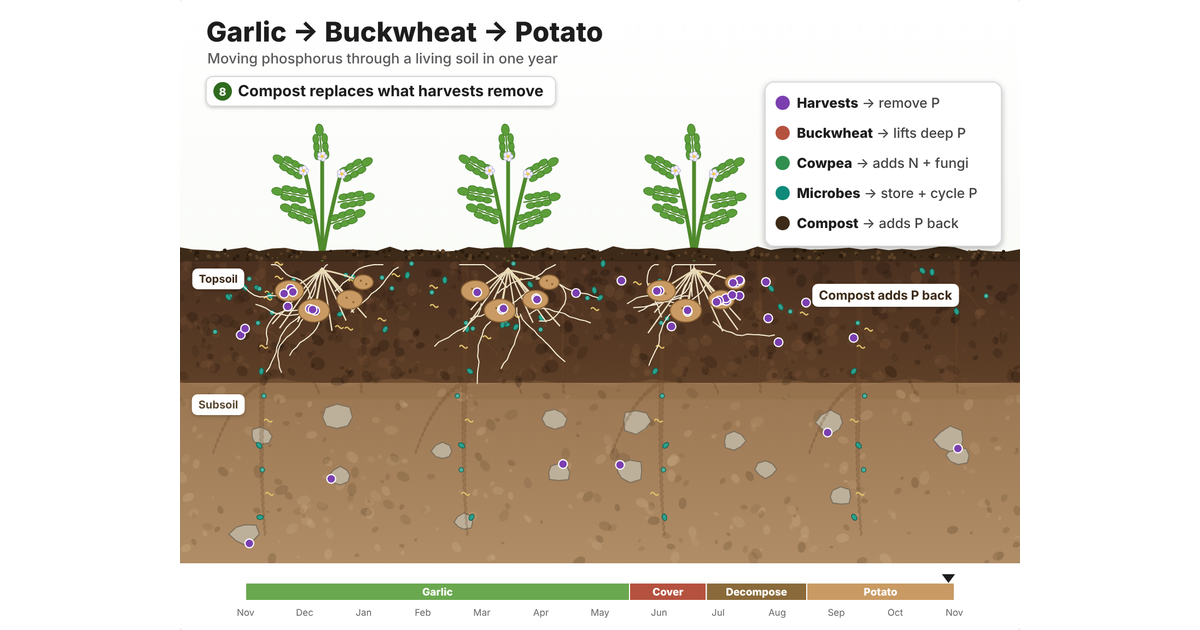
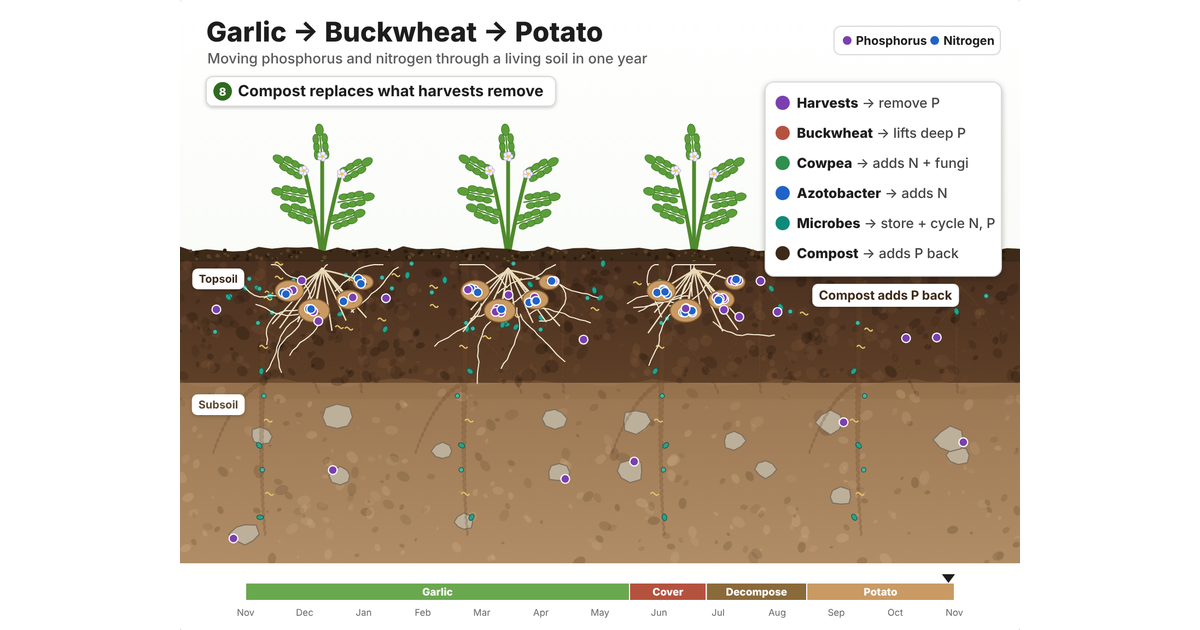
Add files via upload

diff --git a/garlic-buckwheat-potato.html b/garlic-buckwheat-potato.html
@@ -16,7 +16,7 @@
 <meta name="twitter:player:width" content="800">
 <meta name="twitter:player:height" content="600">
 
-<meta name="description" content="Step-through animation of a one-year garlic, buckwheat and cowpea, potato rotation showing how phosphorus moves from deep soil into plants, microbes and potato tubers.">
+<meta name="description" content="Step-through animation of a one-year garlic, buckwheat and cowpea, potato rotation showing how phosphorus and nitrogen move from deep soil into plants, microbes and potato tubers.">
 <link rel="preconnect" href="https://fonts.googleapis.com"><link rel="preconnect" href="https://fonts.gstatic.com" crossorigin>
 <link href="https://fonts.googleapis.com/css2?family=Inter:wght@500;600;700;800&display=swap" rel="stylesheet">
 <style>
@@ -57,7 +57,7 @@ button.icon{padding:9px 12px}
   <filter id="lshadow" x="-20%" y="-20%" width="140%" height="160%"><feDropShadow dx="0" dy="2" stdDeviation="3" flood-color="#000" flood-opacity="0.22"/></filter>
 </defs>
 <rect width="1536" height="1152" fill="url(#sky)"/>
-<g id="soilG"></g><g id="grainG"></g><g id="acidG"></g><g id="rootsG"></g><g id="resG"></g><g id="micG"></g><g id="hyphG"></g><g id="potG"></g><g id="garlicG"></g><g id="coverG"></g><g id="compG"></g><g id="tokG"></g><g id="labelG"></g><g id="uiG"></g><g id="tlG"></g>
+<g id="soilG"></g><g id="grainG"></g><g id="acidG"></g><g id="rootsG"></g><g id="resG"></g><g id="micG"></g><g id="azoG"></g><g id="hyphG"></g><g id="potG"></g><g id="garlicG"></g><g id="coverG"></g><g id="compG"></g><g id="tokG"></g><g id="labelG"></g><g id="uiG"></g><g id="tlG"></g>
 </svg>
 </main>
 <nav class="bar" aria-label="Step controls">
@@ -214,6 +214,14 @@ const PX=[260,600,940];const pot=[];
       hy.push(el('path',{d,stroke:'#f7efd9','stroke-width':2,fill:'none','stroke-linecap':'round',pathLength:1,'stroke-dasharray':'0 2'},hg));}
     pot.push({rg,sg,tubers,hy,x,y:G+70});});
 })();
+// Azotobacter pairs on buckwheat roots (inoculated)
+const AZO=[];
+(function(){const g=$('azoG');
+  BROOTS.forEach(b=>{for(let k=0;k<4;k++){const q=bz(b.tap,0.06+k*0.07);const x=q[0]+(k%2?22:-22),y=q[1];
+    const gg=el('g',{transform:`translate(${x},${y}) scale(0)`},g);
+    [-8,8].forEach(dx=>el('ellipse',{cx:dx,cy:0,rx:8,ry:6,fill:'#2aa08b',stroke:'#0f5a4c','stroke-width':1.5},gg));
+    AZO.push({g:gg,x,y,d:rnd()*0.4});}});
+})();
 // compost layer
 const COMP=el('g',{opacity:0},$('compG'));
 (function(){el('path',{d:`M0,${G-4} `+Array.from({length:65},(_,i)=>`L${i*24},${G-10-rnd()*10}`).join('')+` L${W},${G+6} L0,${G+6}Z`,fill:'#3d2a18'},COMP);
@@ -242,6 +250,18 @@ GRAINS.forEach((gr,gi)=>{for(let k=0;k<2;k++){const a=rnd()*Math.PI*2;const x=gr
   const p=near(pot,m.x,m.y);const tb=p.tubers[Math.floor(rnd()*p.tubers.length)];
   st[6]=[st[5][1],[tb.x+(rnd()-0.5)*20,tb.y+(rnd()-0.5)*10]];st[7]=[st[6][1]];
   TOK.push({st,col:'#7b3fb0'});}});
+// group N: nitrogen fixed by Azotobacter (from soil air) and cowpea nodules
+const NTOK=[];
+AZO.forEach((az,i)=>{const st=[];for(let s=0;s<3;s++)st[s]=null;
+  const sx=az.x+(rnd()-0.5)*60;st[3]=[[sx,G-30],[az.x+(rnd()-0.5)*10,az.y-4]];
+  st[4]=[st[3][1]];const m=near(MIC,az.x,az.y);st[5]=[st[4][0],[m.x+(rnd()-0.5)*8,m.y+(rnd()-0.5)*8]];
+  const p=near(pot,m.x,m.y);const tb=p.tubers[Math.floor(rnd()*p.tubers.length)];st[6]=[st[5][1],[tb.x+(rnd()-0.5)*24,tb.y+(rnd()-0.5)*12]];st[7]=[st[6][1]];
+  NTOK.push({st,col:'#1f63c9'});});
+cow.forEach(c=>c.nods.forEach((n,k)=>{if(k>2)return;const x=+n.getAttribute('cx'),y=+n.getAttribute('cy');const st=[];for(let s=0;s<3;s++)st[s]=null;
+  st[3]=[[x,y-6],[x,y]];st[4]=[[x,y]];const m=near(MIC,x,y);st[5]=[[x,y],[m.x+(rnd()-0.5)*8,m.y+(rnd()-0.5)*8]];
+  const p=near(pot,m.x,m.y);const tb=p.tubers[Math.floor(rnd()*p.tubers.length)];st[6]=[st[5][1],[tb.x+(rnd()-0.5)*24,tb.y+(rnd()-0.5)*12]];st[7]=[st[6][1]];
+  NTOK.push({st,col:'#1f63c9'});}));
+NTOK.forEach(t=>{t.d=rnd()*0.45;TOK.push(t);});
 // group C: compost P
 for(let i=0;i<14;i++){const x=60+rnd()*(W-120);const st=[];for(let s=0;s<7;s++)st[s]=null;st[7]=[[x,G-8],[x+(rnd()-0.5)*40,G+40+rnd()*120]];TOK.push({st,col:'#7b3fb0',comp:true});}
 TOK.forEach(t=>{t.d=rnd()*0.45;});
@@ -266,19 +286,20 @@ LB.harvest=label('Harvest removes P',1180,200,{fs:23,color:'#fff',bg:'#7b3fb0'})
 LB.bound=label('Bound P deep in the subsoil',1180,TOP+250,{fs:22,color:'#5b4a33'});
 LB.cowpea=label('Cowpea: fixes N, keeps fungi fed',1180,300,{fs:23,color:'#2f6b1f'});
 LB.acid=label('Acid exudates free deep P',1180,TOP+190,{fs:22,color:'#1d1d1d',bg:'#ffe14d'});
+LB.azo=label(['Azotobacter + cowpea fix N',['2','sub']],1180,G+60,{fs:22,color:'#fff',bg:'#1f63c9'});
 LB.up=label('P moves up into the plant',1180,360,{fs:23,color:'#fff',bg:'#7b3fb0'});
-LB.inc=label('Residue + P land in the topsoil',1180,300,{fs:23});
+LB.inc=label('Residue + N + P land in the topsoil',1180,300,{fs:23});
 LB.roots=label('Roots decay in place, all the way down',1180,TOP+190,{fs:22});
-LB.mic=label('Microbe bloom holds the P',1180,300,{fs:23,color:'#fff',bg:'#0f8a7a'});
+LB.mic=label('Microbe bloom holds the N + P',1180,300,{fs:23,color:'#fff',bg:'#0f8a7a'});
 LB.myco=label('Inoculated: fungi reach the P',1240,560,{fs:22,color:'#5d4a1c'});
-LB.tub=label('P feeds tuber set and starch',1240,620,{fs:22,color:'#fff',bg:'#7b3fb0'});
+LB.tub=label('N + P feed the tubers',1240,620,{fs:22,color:'#fff',bg:'#7b3fb0'});
 LB.comp=label('Compost adds P back',1290,G+70,{fs:23,color:'#3d2a18'});
 
 // ---------- UI ----------
 const UI=$('uiG');
 el('text',{x:48,y:76,'font-size':50,'font-weight':800,fill:'#1d1d1d'},UI).textContent='Garlic → Buckwheat → Potato';
-el('text',{x:50,y:116,'font-size':26,'font-weight':500,fill:'#5b5b5b'},UI).textContent='Moving phosphorus through a living soil in one year';
-const CAPS=['Nov: plant garlic','Garlic draws P from the topsoil','May: harvest garlic, sow buckwheat + cowpea','Buckwheat pulls P up from deep soil','June: incorporate into the topsoil','Microbes bloom and hold the P','Aug: inoculated potatoes take up cycled P','Compost replaces what harvests remove'];
+el('text',{x:50,y:116,'font-size':26,'font-weight':500,fill:'#5b5b5b'},UI).textContent='Moving phosphorus and nitrogen through a living soil in one year';
+const CAPS=['Nov: plant garlic','Garlic draws P from the topsoil','May: harvest garlic, sow inoculated buckwheat + cowpea','Buckwheat lifts deep P; N is fixed','June: incorporate into the topsoil','Microbes bloom and hold the N + P','Aug: inoculated potatoes take up cycled N + P','Compost replaces what harvests remove'];
 const capG=CAPS.map((c,i)=>{const g=el('g',{opacity:0,transform:'translate(48,140)'},UI);
   const t=el('text',{x:58,y:36,'font-size':28,'font-weight':700,fill:'#1d1d1d'},g);t.textContent=c;
   const bb=t.getBBox();
@@ -286,10 +307,15 @@ const capG=CAPS.map((c,i)=>{const g=el('g',{opacity:0,transform:'translate(48,14
   el('circle',{cx:30,cy:27,r:17,fill:'#2f6b1f'},g);
   const n=el('text',{x:30,y:28,'font-size':20,'font-weight':800,fill:'#fff','text-anchor':'middle','dominant-baseline':'central'},g);n.textContent=String(i+1);
   return g;});
+// dot legend
+(function(){const lg=el('g',{transform:'translate(1196,48)'},UI);
+  el('rect',{x:0,y:0,width:304,height:52,rx:12,fill:'#fff',stroke:'#d8d8d8','stroke-width':2},lg);
+  el('circle',{cx:24,cy:26,r:9,fill:'#7b3fb0',stroke:'#fff','stroke-width':2},lg);el('text',{x:40,y:34,'font-size':22,'font-weight':700,fill:'#1d1d1d'},lg).textContent='Phosphorus';
+  el('circle',{cx:184,cy:26,r:9,fill:'#1f63c9',stroke:'#fff','stroke-width':2},lg);el('text',{x:200,y:34,'font-size':22,'font-weight':700,fill:'#1d1d1d'},lg).textContent='Nitrogen';})();
 // summary
 const SUM=el('g',{opacity:0,transform:'translate(1070,150)'},UI);
-el('rect',{x:0,y:0,width:432,height:300,rx:16,fill:'#fff',stroke:'#d8d8d8','stroke-width':2,filter:'url(#shadow)'},SUM);
-[['#7b3fb0','Harvests','remove P'],['#b5523f','Buckwheat','lifts deep P'],['#2f8f4e','Cowpea','adds N + fungi'],['#0f8a7a','Microbes','store + cycle P'],['#3d2a18','Compost','adds P back']].forEach((r,i)=>{
+el('rect',{x:0,y:0,width:432,height:355,rx:16,fill:'#fff',stroke:'#d8d8d8','stroke-width':2,filter:'url(#shadow)'},SUM);
+[['#7b3fb0','Harvests','remove P'],['#b5523f','Buckwheat','lifts deep P'],['#2f8f4e','Cowpea','adds N + fungi'],['#1f63c9','Azotobacter','adds N'],['#0f8a7a','Microbes','store + cycle N, P'],['#3d2a18','Compost','adds P back']].forEach((r,i)=>{
   const y=38+i*55;el('circle',{cx:32,cy:y,r:13,fill:r[0]},SUM);
   const t=el('text',{x:58,y,'font-size':25,'dominant-baseline':'central',fill:'#1d1d1d'},SUM);
   el('tspan',{'font-weight':800},t).textContent=r[1];const b=el('tspan',{'font-weight':500,fill:'#444'},t);b.textContent='  →  '+r[2];});
@@ -337,6 +363,7 @@ window.render=function(t){
     p.tubers.forEach(tb=>tb.g.setAttribute('transform',`translate(${tb.x},${tb.y}) scale(${tub})`));
     p.hy.forEach((h,i)=>{const v=ss(clamp((P(6)-0.15-i*0.03)/0.5,0,1));h.setAttribute('stroke-dasharray',`${v} 2`);h.setAttribute('visibility',v>0.002?'visible':'hidden');});});
   COMP.setAttribute('opacity',ss(clamp(P(7)/0.3,0,1)));
+  AZO.forEach(az=>{const v=ss(clamp((P(2)-0.6-az.d*0.5)/0.3,0,1))*(1-ss(clamp(P(5)/0.6,0,1)));az.g.setAttribute('transform',`translate(${az.x},${az.y}) scale(${eback(v)})`);az.g.setAttribute('opacity',v>0.01?1:0);});
   // tokens
   TG.innerHTML='';
   TOK.forEach(tk=>{
@@ -363,7 +390,7 @@ window.render=function(t){
   L(LB.bound,2,0.6);off(LB.bound,4);
   L(LB.cowpea,2,0.75);if(k===2)LB.garlic.setAttribute('opacity',0);off(LB.cowpea,3);
   if(k===2){LB.harvest.setAttribute('opacity',clamp(1-ss((u-0.55)/0.15),0,1)*ss(clamp((t-T[2])/0.5,0,1)));LB.cowpea.setAttribute('opacity',ss(clamp((u-0.72)/0.12,0,1)));}
-  L(LB.acid,3,0.05);L(LB.up,3,0.55);off(LB.acid,4);off(LB.up,4);
+  L(LB.acid,3,0.05);L(LB.up,3,0.55);L(LB.azo,3,0.3);off(LB.acid,4);off(LB.up,4);off(LB.azo,4);
   L(LB.inc,4,0.6);L(LB.roots,4,0.75);off(LB.inc,5);off(LB.roots,5);
   L(LB.mic,5,0.5);off(LB.mic,6);
   L(LB.myco,6,0.4);L(LB.tub,6,0.8);off(LB.myco,7);off(LB.tub,7);
@@ -374,12 +401,12 @@ window.render=function(t){
 // ---------- step player ----------
 const DESC=['November: garlic is planted. The soil profile shows a dark topsoil over a lighter subsoil, with phosphorus bound to mineral particles deep down.',
  'Through winter and spring, garlic grows. Its shallow roots draw phosphorus from the topsoil into the bulbs.',
- 'In May the garlic is harvested, and the phosphorus in the bulbs leaves the field. Buckwheat and cowpea are sown. Buckwheat roots reach deep into the subsoil; cowpea forms nitrogen-fixing nodules and keeps mycorrhizal fungi fed.',
- 'Buckwheat roots release acid exudates that free bound phosphorus deep in the subsoil. The plant takes it up and moves it into its leaves and stems.',
+ 'In May the garlic is harvested, and the phosphorus in the bulbs leaves the field. Buckwheat seed inoculated with Azotobacter is sown with cowpea. Buckwheat roots reach deep into the subsoil; cowpea forms nitrogen-fixing nodules and keeps mycorrhizal fungi fed.',
+ 'Buckwheat roots release acid exudates that free bound phosphorus deep in the subsoil. The plant takes it up and moves it into its leaves and stems. Meanwhile Azotobacter on the buckwheat roots and the cowpea nodules fix nitrogen from the air into living cells.',
  'About 40 days after sowing, in June, the buckwheat and cowpea are incorporated. The residue and its phosphorus land in the topsoil, and the roots decay in place all the way down.',
- 'Through the summer, decomposition drives a bloom of microbes in the topsoil and along the old root channels. The phosphorus moves into microbial biomass.',
- 'In August, whole seed potatoes are planted and inoculated with mycorrhizal fungi. The soil food web cycles phosphorus out of the microbes, the fungi reach it, and it feeds tuber set and starch.',
- 'Compost is added to replace the phosphorus removed by the garlic and potato harvests. Summary: harvests remove P, buckwheat lifts deep P, cowpea adds nitrogen and fungi, microbes store and cycle P, and compost adds P back.'];
+ 'Through the summer, decomposition drives a bloom of microbes in the topsoil and along the old root channels. The phosphorus and the fixed nitrogen move into microbial biomass.',
+ 'In August, whole seed potatoes are planted and inoculated with mycorrhizal fungi. The soil food web cycles phosphorus out of the microbes, the fungi reach it, and the nitrogen and phosphorus feed the tubers.',
+ 'Compost is added to replace the phosphorus removed by the garlic and potato harvests. Summary: harvests remove P, buckwheat lifts deep P, cowpea and Azotobacter add nitrogen, microbes store and cycle nitrogen and phosphorus, and compost adds P back.'];
 const STEPS=CAPS.map((c,i)=>({s:T[i],e:T[i]+DUR[i],desc:DESC[i]}));
 let cur=0,raf=null;
 const reduce=window.matchMedia('(prefers-reduced-motion: reduce)').matches;
